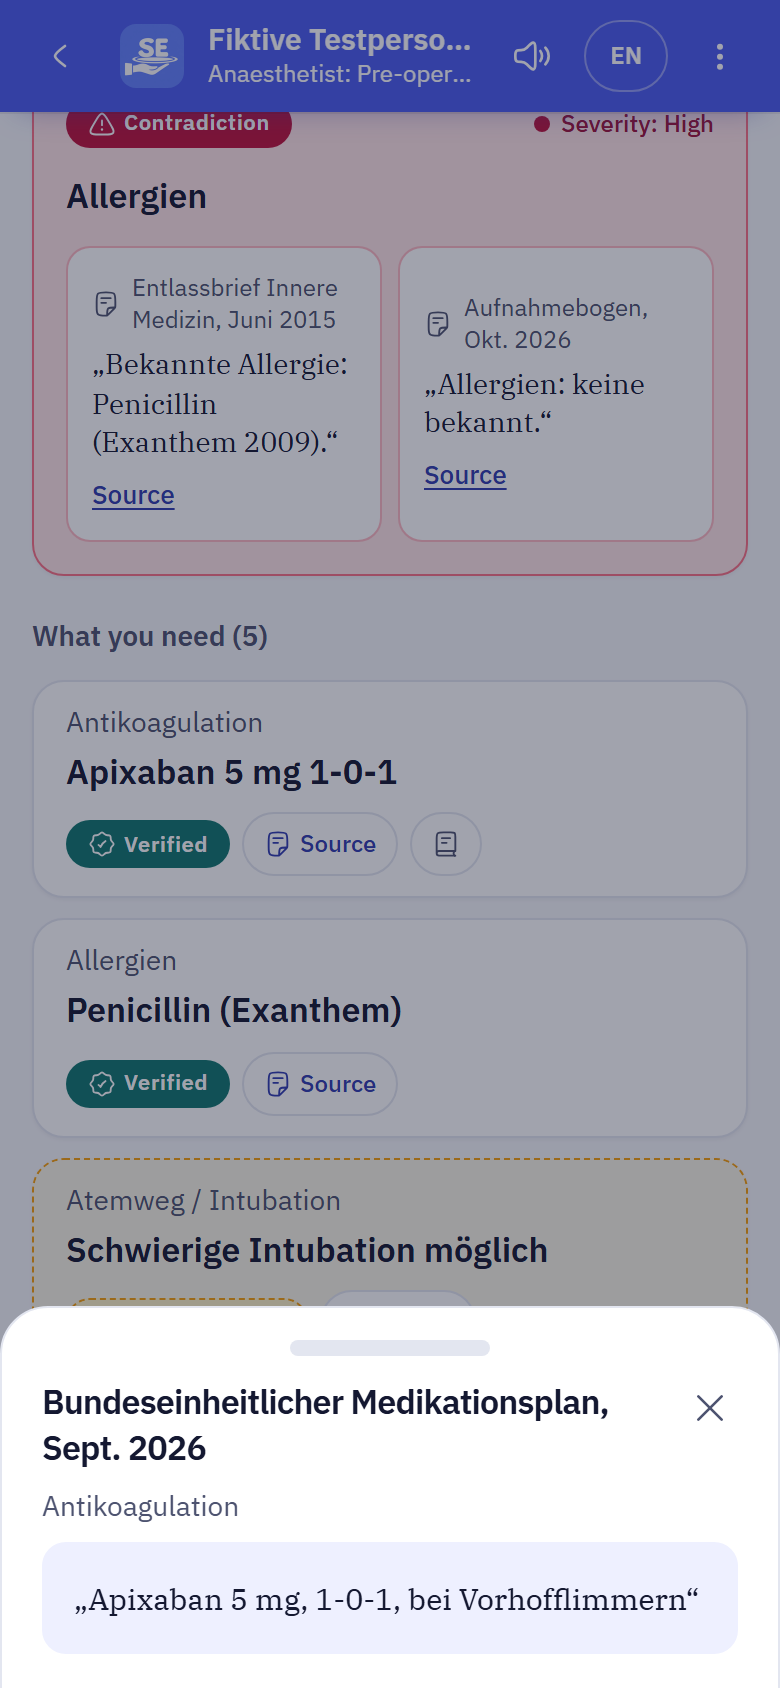
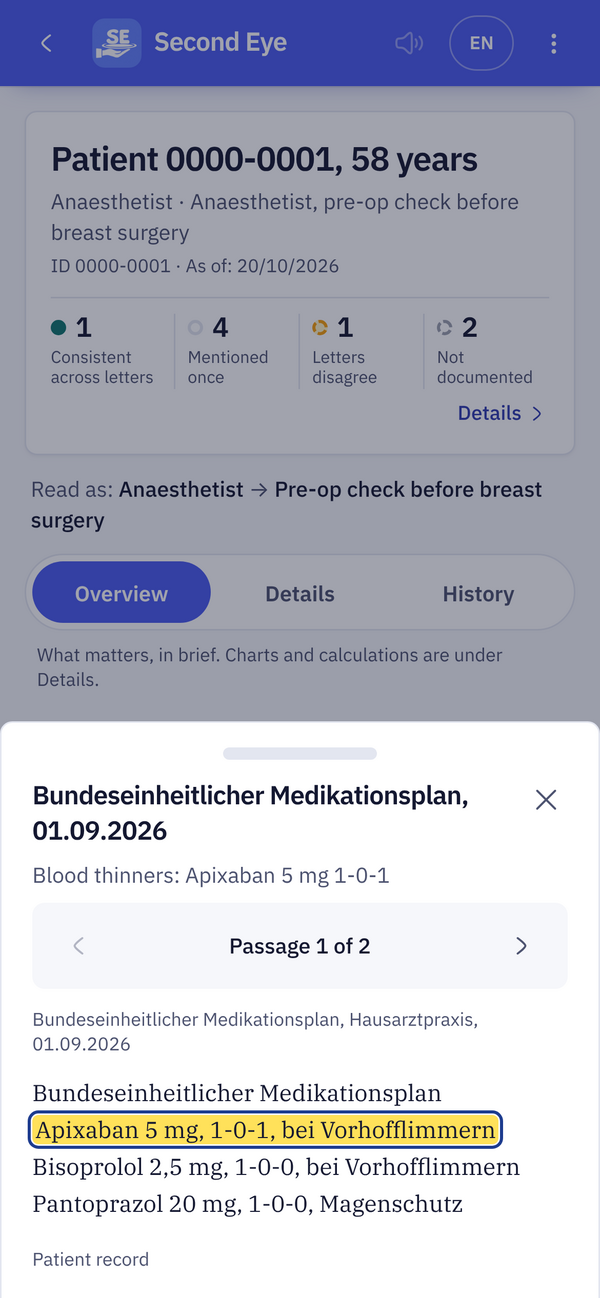
README: new screenshots of the answer-first app (invented patient)
Claude-Session: https://claude.ai/code/session_01WzwuZF6SKCZwuzMKLyNvSK

diff --git a/README.md b/README.md
@@ -18,7 +18,7 @@ Second Eye answers first, in a sentence or two. Every value comes from the lette
 
 <img src="docs/media/second-eye.webp" alt="Animation: eight letters about one patient; an error copied from letter to letter and a weight that vanishes. The Second Eye logo lands. On a phone, an anaesthetist types one sentence; the answer appears first with numbered sources, and a tap opens the cited passage in the original German letter. Overview, Details in dark mode and History follow, then a contradiction between two letters about a penicillin allergy, and the results." width="100%">
 
-**[▶ Watch the film with sound](docs/media/second-eye.mp4)** · <sub>Every screen in it is the real app running on an invented demo patient. No patient data is shown.</sub>
+**[▶ Watch the film with sound](docs/media/second-eye.mp4)** · <sub>Every screen in it is the real app running on an invented patient. No patient data is shown.</sub>
 
 </div>
 
@@ -57,7 +57,7 @@ Everything else is one tap away: **Show more** for key facts and the full fact l
 
 <img src="docs/media/screenshots/10-desktop.png" alt="Second Eye on a desktop screen: patient card, the answer with sources, and the facts the task needs" width="100%">
 
-<sub>All results screens use the invented demo patient ("Fictitious test person A"); no organiser data is shown.</sub>
+<sub>The real app, fed a set of invented letters for an invented patient; no organiser data is shown.</sub>
 
 ## Results
 
